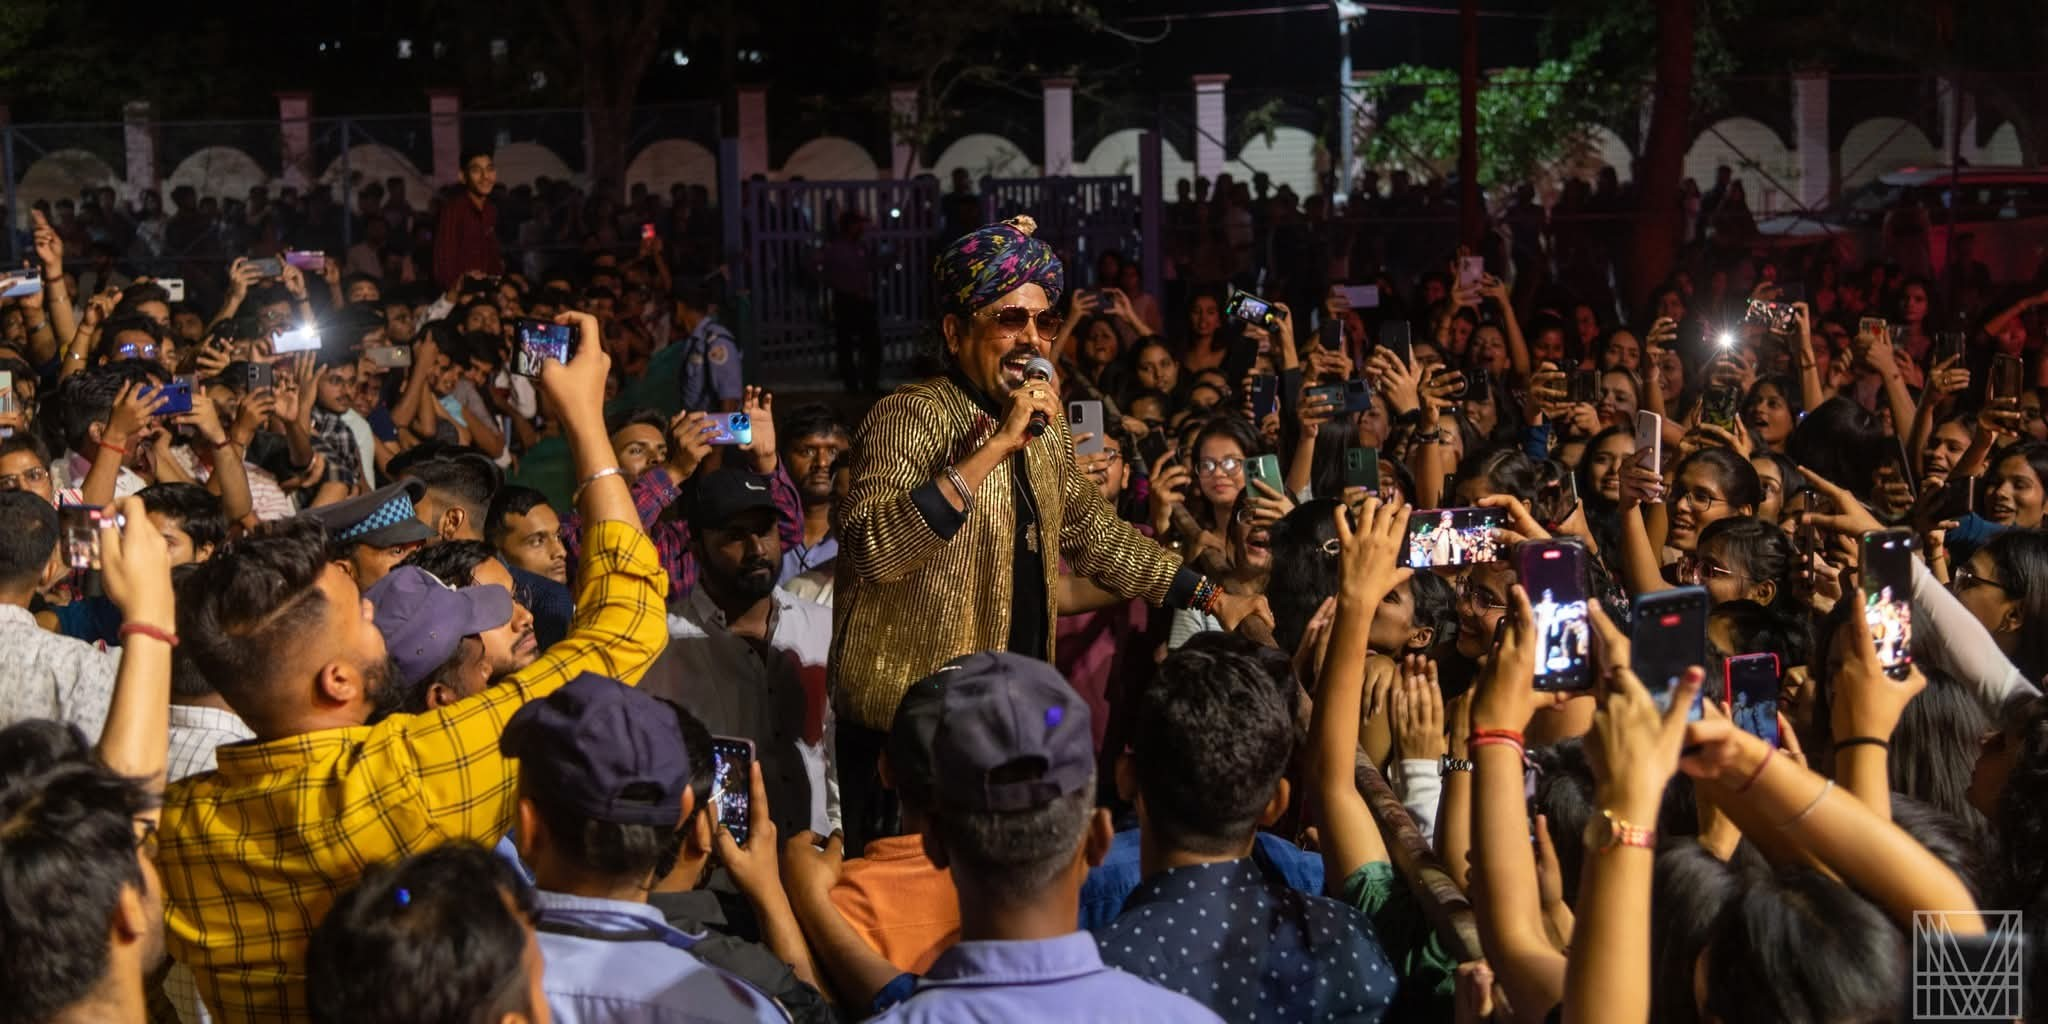
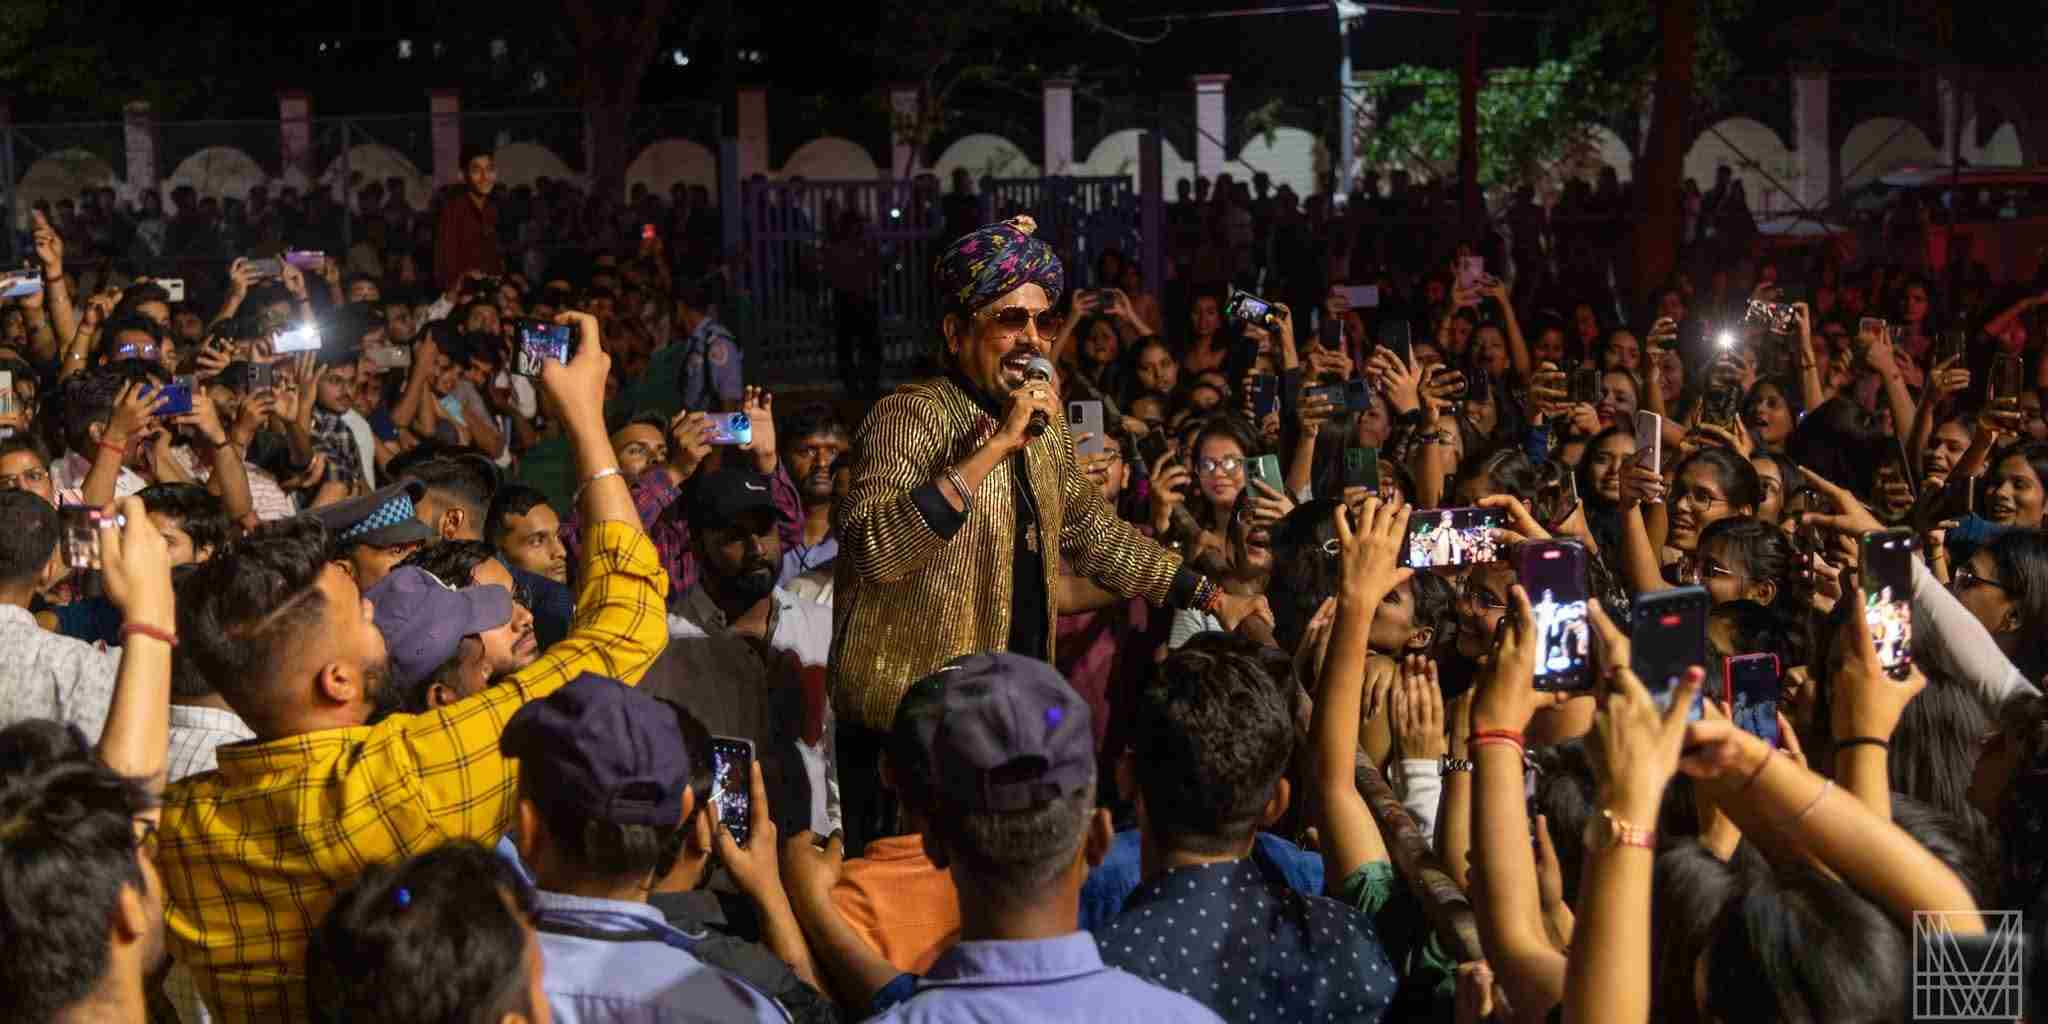
[refactor] : use compressed image in gallery section and rearrange image position

diff --git a/client/src/pages/Gallery.jsx b/client/src/pages/Gallery.jsx
@@ -19,11 +19,11 @@ const Gallery = () => {
 
   const GALLERY_ITEMS = [
     {
-      id: 1,
-      staticSrc: galleryImg2,
-      title: "Mame Khan",
-      text: "Folk Maestro of India. One of India’s most celebrated folk voices, known for carrying the rich Manganiyar tradition to global audiences. His powerful vocals and vibrant stage presence make every performance unforgettable.",
-      size: "md:col-span-2 md:row-span-1 col-span-1 row-span-1",
+      id: 2,
+      staticSrc: galleryImg1,
+      title: "Mohit chauhan",
+      text: "Mohit Chauhan is one of India’s most loved playback singers, known for his soulful tone and heartfelt melodies.With chart-topping hits across decades, his voice has become a defining sound of modern Indian music.Live or recorded, his performances carry emotion, nostalgia, and timeless charm.",
+     size: "md:col-span-2 md:row-span-1 col-span-1 row-span-1",
       aspectRatio: "aspect-[2/1]",
       color: "bg-grey-300",
       initialX: -800,
@@ -41,27 +41,28 @@ const Gallery = () => {
       initialY: 900,
     },
     {
-      id: 2,
-      staticSrc: galleryImg1,
-      title: "Mohit chauhan",
-      text: "Mohit Chauhan is one of India’s most loved playback singers, known for his soulful tone and heartfelt melodies.With chart-topping hits across decades, his voice has become a defining sound of modern Indian music.Live or recorded, his performances carry emotion, nostalgia, and timeless charm.",
+      id: 8,
+      staticSrc: galleryImg8,
+      title: "Suhani Shah",
+      text: "India’s Leading Illusionist & Mentalist. Captivating audiences with mind-reading, psychological tricks, and immersive storytelling. She is a trailblazer in modern magic.",
       size: "col-span-1 row-span-1 md:row-span-2",
       aspectRatio: "aspect-[1/2]",
       color: "bg-grey-300",
       initialX: 0,
       initialY: -1000,
-    },
-    {
-      id: 3,
-      staticSrc: galleryImg3,
-      title: "Rajat Chauhan",
-      text: "The Relatable Comedy Storyteller. Known for his clean, witty humour and everyday observations, his effortless storytelling makes him a favourite among audiences of all ages.",
-      size: "md:col-span-2 md:row-span-2 col-span-1 row-span-1",
-      aspectRatio: "aspect-square",
+    }, 
+     {
+      id: 10,
+      staticSrc: galleryImg10,
+      title: "Monali Thakur",
+      text: "National Award–Winning Playback Sensation. A versatile singer with an expressive voice and wide musical range. Her songs blend clarity, finesse, and emotion.",
+       size: "md:col-span-2 md:row-span-2 col-span-1 row-span-1",
+      aspectRatio: "aspect-[1/1]",
       color: "bg-grey-300",
       initialX: 800,
       initialY: -800,
     },
+   
     {
       id: 4,
       staticSrc: galleryImg4,
@@ -106,17 +107,18 @@ const Gallery = () => {
       initialX: 0,
       initialY: 1000,
     },
-    {
-      id: 8,
-      staticSrc: galleryImg8,
-      title: "Suhani Shah",
-      text: "India’s Leading Illusionist & Mentalist. Captivating audiences with mind-reading, psychological tricks, and immersive storytelling. She is a trailblazer in modern magic.",
+     {
+      id: 1,
+      staticSrc: galleryImg2,
+      title: "Mame Khan",
+      text: "Folk Maestro of India. One of India’s most celebrated folk voices, known for carrying the rich Manganiyar tradition to global audiences. His powerful vocals and vibrant stage presence make every performance unforgettable.",
       size: "md:col-span-1 md:row-span-1 col-span-1 row-span-1",
       aspectRatio: "aspect-square",
       color: "bg-grey-300",
       initialX: 0,
       initialY: 1200,
     },
+    
     {
       id: 9,
       staticSrc: galleryImg9,
@@ -128,17 +130,18 @@ const Gallery = () => {
       initialX: 0,
       initialY: 1100,
     },
-    {
-      id: 10,
-      staticSrc: galleryImg10,
-      title: "Monali Thakur",
-      text: "National Award–Winning Playback Sensation. A versatile singer with an expressive voice and wide musical range. Her songs blend clarity, finesse, and emotion.",
+     {
+      id: 3,
+      staticSrc: galleryImg3,
+      title: "Rajat Chauhan",
+      text: "The Relatable Comedy Storyteller. Known for his clean, witty humour and everyday observations, his effortless storytelling makes him a favourite among audiences of all ages.",
       size: "md:col-span-2 md:row-span-2 col-span-1 row-span-1",
       aspectRatio: "aspect-square",
       color: "bg-grey-300",
       initialX: 0,
       initialY: 900,
     },
+   
   ];
 
   return (
